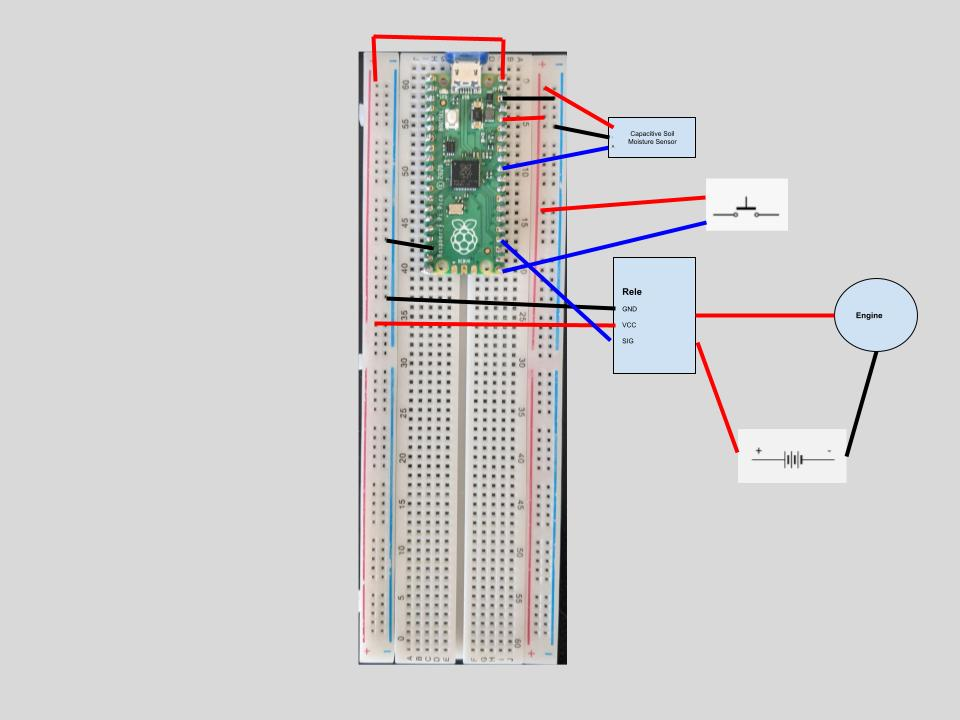
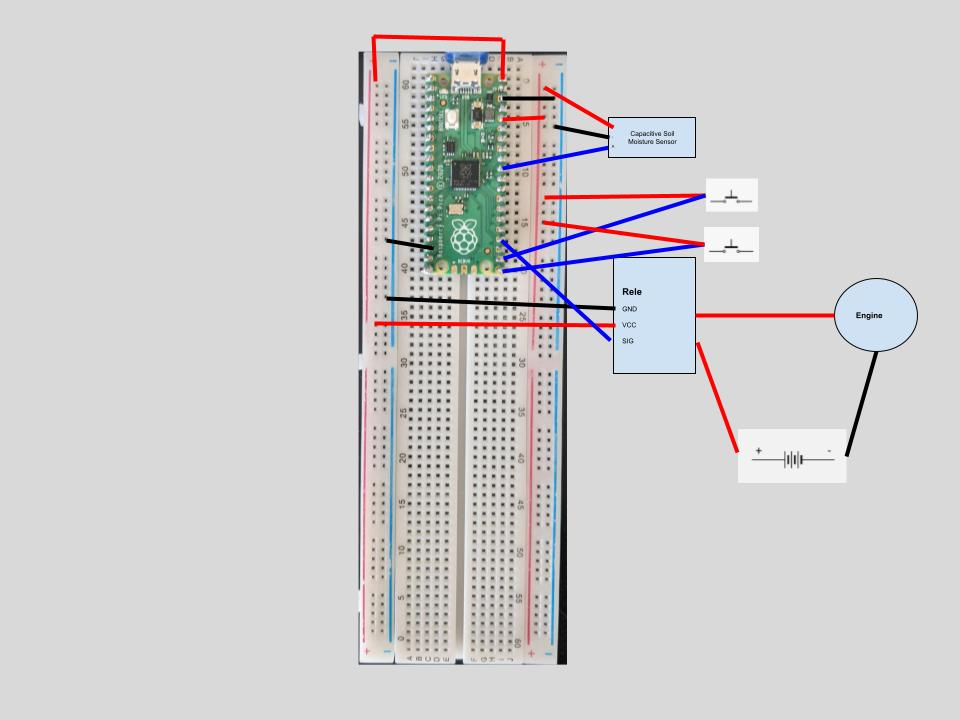
Automatic irrigation (#3)

Changed region(s): [[0.5, 0.2444, 0.8438, 0.3972]]

diff --git a/src/machine_state.py b/src/machine_state.py
@@ -1,0 +1,132 @@
+
+execfile("logger.py")
+
+# Posible states
+I_OFF = "IRRIGATION-ACTIVE-WATER-OFF"
+I_A_ON = "IRRIGATION-ACTIVE-AUTOMATIC-WATER-ON"
+I_M_ON = "IRRIGATION-ACTIVE-MANUAL-WATER-ON"
+C_OFF = "CONFIGURATION-ACTIVE-WATER-OFF"
+C_ON = "CONFIGURATION-ACTIVE-WATER-ON"
+
+#Global constants
+total_irrigation_cicles = 3
+total_waiting_cycles = 86400 #24h
+
+#Global variables
+current_cycles = 0
+current_state = I_OFF
+
+# Input variables
+button_engine_state = 0
+button_mode_state = 0
+
+# Output variables
+engine_state = 0
+led_state = 0
+
+def set_I_OFF():
+    global current_cycles
+    global current_state
+    global engine_state
+    global led_state
+    current_state = I_OFF
+    current_cycles = 0
+    engine_state = 0
+    led_state = 0
+    write_log_line([current_state])
+    
+def set_I_A_ON():
+    global current_cycles
+    global current_state
+    global engine_state
+    global led_state
+    current_state = I_A_ON
+    current_cycles = 0
+    engine_state = 1
+    led_state = 0
+    write_log_line([current_state])
+    
+def set_I_M_ON():
+    global current_cycles
+    global current_state
+    global engine_state
+    global led_state
+    current_state = I_M_ON
+    current_cycles = 0
+    engine_state = 1
+    led_state = 0
+    write_log_line([current_state])
+    
+def set_C_OFF(update_total_irrigation_cyles):
+    global current_cycles
+    global current_state
+    global engine_state
+    global total_irrigation_cicles
+    global led_state
+    current_state = C_OFF
+    if(update_total_irrigation_cyles):
+        total_irrigation_cicles = current_cycles
+    current_cycles = 0
+    engine_state = 0
+    led_state = 1
+    write_log_line([current_state])
+    
+def set_C_ON():
+    global current_cycles
+    global current_state
+    global engine_state
+    global led_state
+    current_state = C_ON
+    current_cycles = 0
+    engine_state = 1
+    led_state = 1
+    write_log_line([current_state])
+
+def state_transitions():
+    global current_state
+    global current_cycles
+    global button_engine_state
+    global button_mode_state
+    global engine_state
+    global total_irrigation_cicles
+    global total_waiting_cycles
+    
+    current_cycles = current_cycles + 1
+    if(current_state == I_OFF):
+        if(button_mode_state == 1):
+            set_C_OFF(False)
+            return
+        if(button_engine_state == 1):
+            set_I_M_ON()
+            return
+        if(current_cycles >= total_waiting_cycles):
+            set_I_A_ON()
+            return
+            
+    if(current_state == I_A_ON):
+        if(current_cycles >= total_irrigation_cicles):
+            set_I_OFF()
+            return
+        
+    if(current_state == I_M_ON):
+        if(button_engine_state == 1):
+            set_I_OFF()
+            return
+        
+    if(current_state == C_OFF):
+        if(button_mode_state == 1):
+            set_I_OFF()
+            return
+        if(button_engine_state == 1):
+            set_C_ON()
+            return
+        
+    if(current_state == C_ON):
+        if(button_engine_state == 1):
+            set_C_OFF(True)
+      
+def print_current_status(current_state, current_cycles, button_engine_state, button_mode_state, engine_state, total_irrigation_cicles, total_waiting_cycles):
+    print("current_state:" + str(current_state) + " current_cycles:" + str(current_cycles) + " button_engine_state:" + str(button_engine_state) + " button_mode_state:" + str(button_mode_state) + " engine_state:" + str(engine_state) + " total_irrigation_cicles:" + str(total_irrigation_cicles) + " total_waiting_cycles:" + str(total_waiting_cycles))
+
+
+

diff --git a/src/main.py b/src/main.py
@@ -1,38 +1,32 @@
 import _thread
 import utime
+import gc
 
 execfile("utils.py")
 execfile("logger.py")
 execfile("led_control.py")
-execfile("capture_data.py")
 execfile("water_pump_control.py")
+execfile("machine_state.py")
 
 
-def sensor_monitoring():
-    t = capture_temperature()
-    m = capture_soil_moisture()
-    write_log_line([t,m])
-
-def thread1():
-    counter1 = 1
-    while True:
-        counter1 = update_counter(counter1)
-        #--------------------------------------
-        execute_every(counter1, 5, turn_on_internal_led)
-        execute_every(counter1, 900, sensor_monitoring)
-        #--------------------------------------
-        utime.sleep(1)
-    
-def thread2():
+try:
     counter2 = 1
     while True:
         counter2 = update_counter(counter2)
         #--------------------------------------
-        execute_every(counter2, 1, control_button)
+        execute_every(counter2, 100, state_transitions)
+        #execute_every(counter2, 100, print_current_status, current_state, current_cycles, button_engine_state, button_mode_state, engine_state, total_irrigation_cicles, total_waiting_cycles)
+        execute_every(counter2, 50, engine_button)
+        execute_every(counter2, 50, mode_button)
+        execute_every(counter2, 5, update_engine_state, engine_state)
+        if(led_state == 1):
+            execute_every(counter2, 50, turn_internal_led)
+        else:
+            execute_every(counter2, 200, turn_internal_led)
         #--------------------------------------
-        utime.sleep(0.2)
-    
-_thread.start_new_thread(thread1, [])
-thread2()
+        utime.sleep(0.01)        
+        gc.collect()
+except (OSError, Exception) as error:
+    write_log_line([str(error)])
 
     

diff --git a/src/water_pump_control.py b/src/water_pump_control.py
@@ -1,18 +1,32 @@
 import machine
 import utime
 
-def turn_on_water_pump():
-    engine = machine.Pin(18, machine.Pin.OUT)
-    engine.value(1)
+
+engine_switch = 0
     
-def turn_off_water_pump():
+def update_engine_state(engine_state):
+    global engine_switch
     engine = machine.Pin(18, machine.Pin.OUT)
-    engine.value(0)
-    
-def control_button():
-    button_pump_control = machine.Pin(16, machine.Pin.IN, machine.Pin.PULL_DOWN)
-    if (button_pump_control.value() == 1):
-        turn_on_water_pump()
+    if (engine_state == 1):
+        # To reduce pump water power
+        if(engine_switch >= 6):
+            engine_switch = 0
+        else:
+            engine_switch = engine_switch + 1
+        if(engine_switch == 0):   
+            engine.value(0)
+        else:
+            engine.value(1)
     else:
-        turn_off_water_pump()
+        engine.value(0)
+    
+def engine_button():
+    global button_engine_state
+    button_engine_control = machine.Pin(16, machine.Pin.IN, machine.Pin.PULL_DOWN)
+    button_engine_state = button_engine_control.value()
+    
+def mode_button():
+    global button_mode_state
+    button_mode_control = machine.Pin(17, machine.Pin.IN, machine.Pin.PULL_DOWN)
+    button_mode_state = button_mode_control.value()
         

diff --git a/src/led_control.py b/src/led_control.py
@@ -1,9 +1,16 @@
 import machine
 import utime
 
-def turn_on_internal_led(sleep_period = 1):
+internal_led_status = 0
+
+def turn_internal_led():
+    global internal_led_status
     onboard_led = machine.Pin(25, machine.Pin.OUT)
-    onboard_led.value(1)
-    utime.sleep(sleep_period)
-    onboard_led.value(0)
+    if(internal_led_status == 0):
+        onboard_led.value(1)
+        internal_led_status = 1
+    else:
+        onboard_led.value(0)
+        internal_led_status = 0
+
         

diff --git a/src/utils.py b/src/utils.py
@@ -6,6 +6,6 @@ def update_counter(count, limit=10000):
     else:
         return count + 1
     
-def execute_every(counter, period, fun):
+def execute_every(counter, period, fun, *args):
     if(counter % period == 0):
-        fun()
+        fun(*args)
